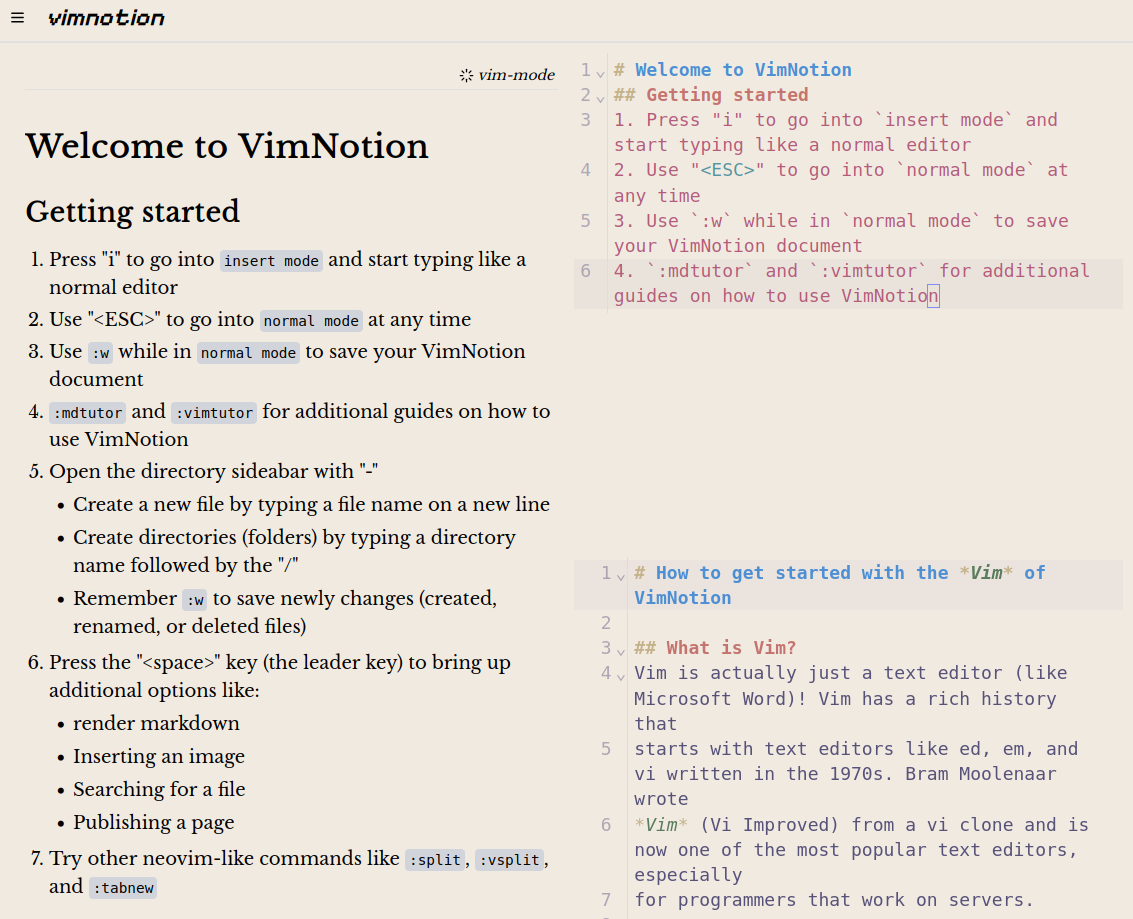
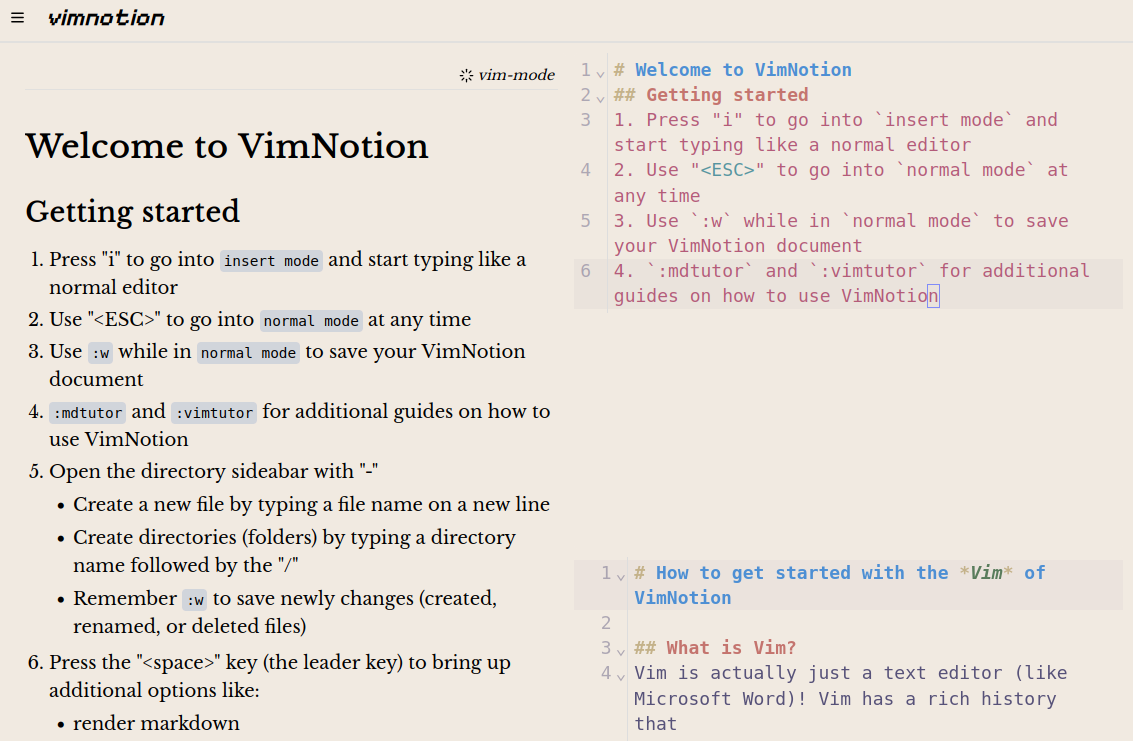
tsconfig staying with react-jsx

diff --git a/nextjs-vimnotion/src/components/custom/marketing-home.tsx b/nextjs-vimnotion/src/components/custom/marketing-home.tsx
@@ -13,59 +13,78 @@ export default async function MarketingHome() {
 				<h1 className="font-pixel font-bold text-7xl italic">
 					VimNotion
 				</h1>
-				<h2 className="text-3xl italic">
+				<h2 className="text-3xl italic text-center">
 					The most <strong className="dark:text-yellow-400 text-yellow-600">buttery smooth</strong>
 					&nbsp;text editor for notes and documents on the web
 				</h2>
 				<div className="flex flex-col md:flex-row gap-4 w-11/12 max-w-[1200px]
 				items-center md:items-start justify-center py-4">
-					<img src="https://vimnotion.com"
-						className="md:basis-1/4"
-						alt="markdown video" width={900} height={50} />
-					<img src="https://vimnotion.com"
-						className="md:basis-1/4"
-						alt="split screen picture" width={400} height={50} />
-					<img src="https://vimnotion.com"
-						className="md:basis-1/4"
-						alt="navigation video" width={50} height={50} />
+					<div className="md:basis-1/3 p-4 flex flex-col 
+					justify-center items-center rounded-xs gap-4">
+						<h3 className="italic text-xl text-center font-bold ">
+							First-class Markdown
+						</h3>
+						<Image src="/markdown transition.gif"
+							className="md:basis-1/3 rounded-xs"
+							alt="markdown video" width={300} height={50} />
+					</div>
+					<div className="md:basis-1/3 p-4 flex flex-col 
+					justify-center items-center rounded-xs gap-4">
+						<h3 className="italic text-xl text-center font-bold ">
+							Snappy vim motions
+						</h3>
+						<Image src="/vim-motions.gif"
+							className="md:basis-1/3 rounded-xs"
+							alt="vim motion" width={300} height={50} />
+					</div>
+					<div className="md:basis-1/3 p-4 flex flex-col 
+					justify-center items-center rounded-xs gap-4">
+						<h3 className="italic text-xl text-center font-bold ">
+							Keybindings to keep you in flow
+						</h3>
+						<Image src="/search-files.gif"
+							className="md:basis-1/3 rounded-xs"
+							alt="navigation video" width={300} height={50} />
+					</div>
 				</div>
 			</div>
 			<div className="w-full flex flex-col items-center gap-4">
-				<h2 className="text-3xl italic pt-10">
-					Rooted in <strong className="underline">Markdown</strong>&nbsp;
-					and <strong className="underline">Vim</strong>&nbsp;
+				<h2 className="text-3xl italic pt-10 text-center">
+					Rooted in <strong className="underline">Markdown</strong> and <strong className="underline">Vim</strong>&nbsp;
 				</h2>
 				<div className="flex flex-col md:flex-row gap-4 w-11/12 max-w-[1200px]
 				items-center md:items-start justify-center py-4">
 					<div className="md:basis-1/2 p-4 flex flex-col 
 					justify-center items-center rounded-xs gap-4">
-						<h3 className="italic text-2xl text-center font-bold underline">
-							Simple, beautiful documents in Markdown
+						<h3 className="italic text-xl text-center font-bold">
+							Craft beautiful documents with the simplicity of Markdown
 						</h3>
 						<Image src="/markdown-s.png"
 							className="rounded-sm"
-							alt="markdown" width={900} height={500} />
+							alt="markdown" width={550} height={50} />
 					</div>
 					<div className="md:basis-1/2 p-4 flex flex-col 
 					justify-center items-center rounded-xs gap-4">
-						<h3 className="italic text-2xl text-center font-bold underline">
-							With the flow state of Vim editing
+						<h3 className="italic text-xl text-center font-bold">
+							Paying homage to Vim editors of the past with search, split views, and new tabs at your fingertips
 						</h3>
 						<Image src="/split-ss.png"
 							className="rounded-sm"
-							alt="split screen" width={900} height={500} />
+							alt="split screen" width={800} height={50} />
 					</div>
 				</div>
 			</div>
-			<Link target="_self" href={`https://github.com/login/oauth/authorize?scope=read:user,user:email&
+			<div className="h-14">
+				<Link target="_self" href={`https://github.com/login/oauth/authorize?scope=read:user,user:email&
 						client_id=${process.env.NEXT_PUBLIC_GITHUB_CLIENT_ID}`}
-				className='font-bold font-pixel text-3xl px-4 h-12
+					className='font-bold font-pixel text-3xl px-4 h-12
 					border-yellow-600 text-[#151515] border-b-8 border-2 bg-[#ffd497]
 					hover:border-b-4 hover:translate-y-1 flex items-center'>
-				<div>
-					Enter VN
-				</div>
-			</Link>
+					<div>
+						Enter VN
+					</div>
+				</Link>
+			</div>
 		</div>
 	);
 }
